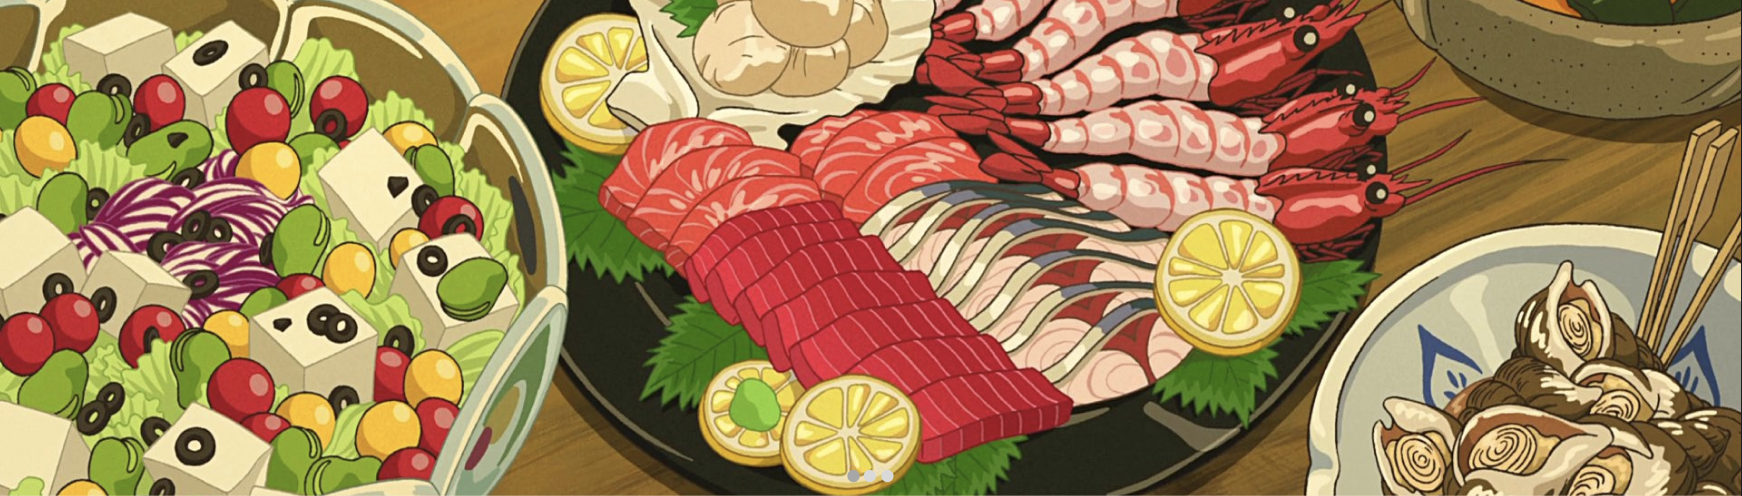
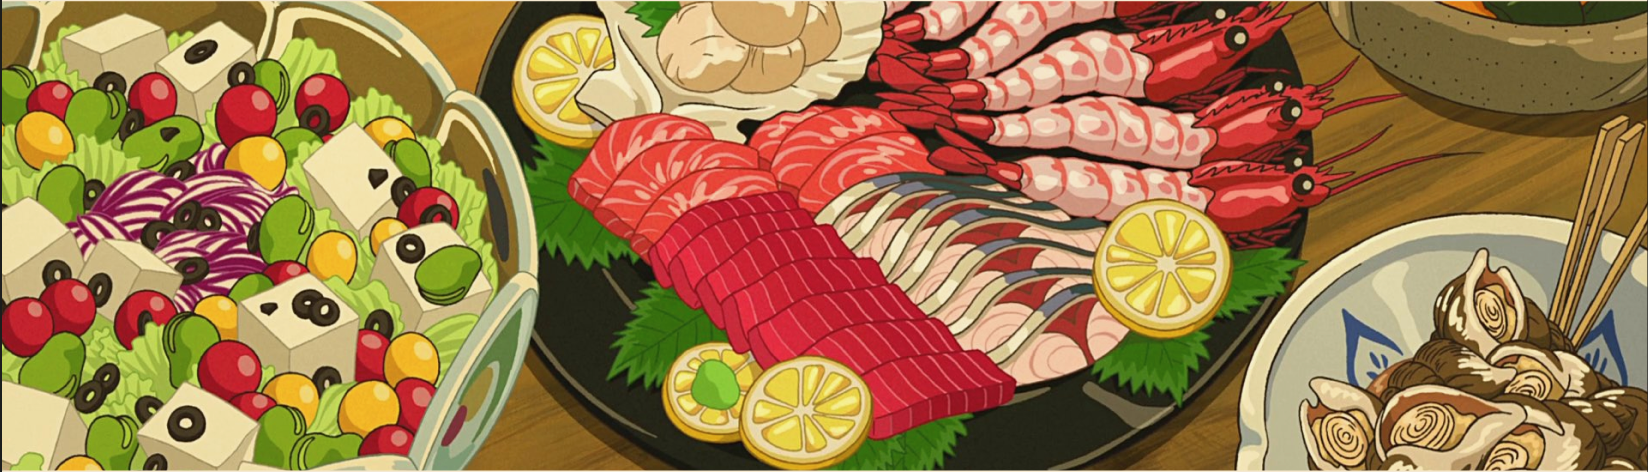
fixed format

diff --git a/src/CineEats/Home/index.tsx b/src/CineEats/Home/index.tsx
@@ -4,11 +4,11 @@ export default function Home() {
      return (
           <div className="home-page">
 
-               <Card style={{ width: "100vw",height: "450px", margin: 0, padding: 0, marginTop: "-200px"}}>
+               <Card style={{ width: "100vw",height: "450px", margin: 0, padding: 0, marginTop: "-100px", border: "none"}}>
                     <Card.Img
                          src="/images/studio_g.png"
                          height={365}
-                         style={{ width: "100vw", height:"100%", objectFit: "cover", display: "block" }}
+                         style={{ width: "100vw", height:"100%", display: "block", border: "none"}}
                     />
                    <p className="wd_content">“Food always comes to those who love to cook” <div className="wd_content_movie ">-Ratatouille</div>
                    <Card.Text

diff --git a/src/CineEats/index.css b/src/CineEats/index.css
@@ -3,7 +3,7 @@
      display: flex;
      align-items: center;
      justify-content: space-between; /* Space between logo and links */
-     padding: 40px 20px;
+     padding: 30px 20px;
      position: absolute;
      top: 0;
      left: 0;
